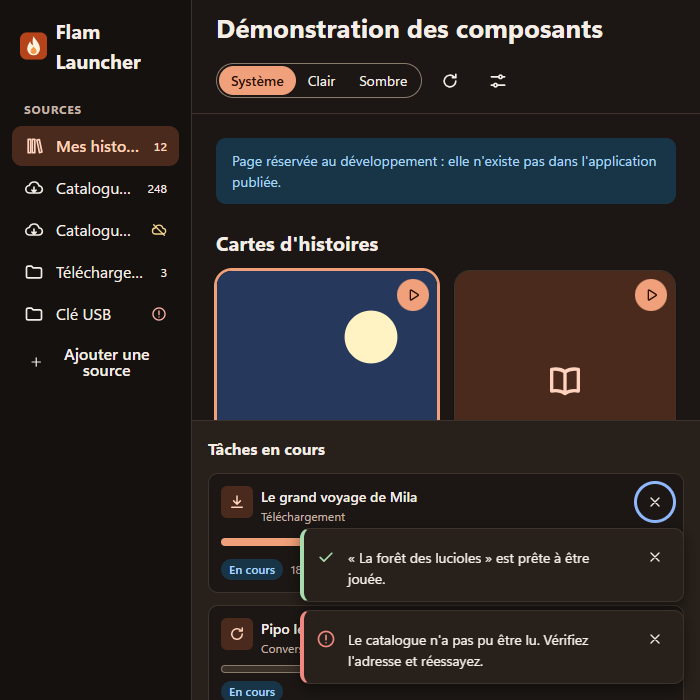
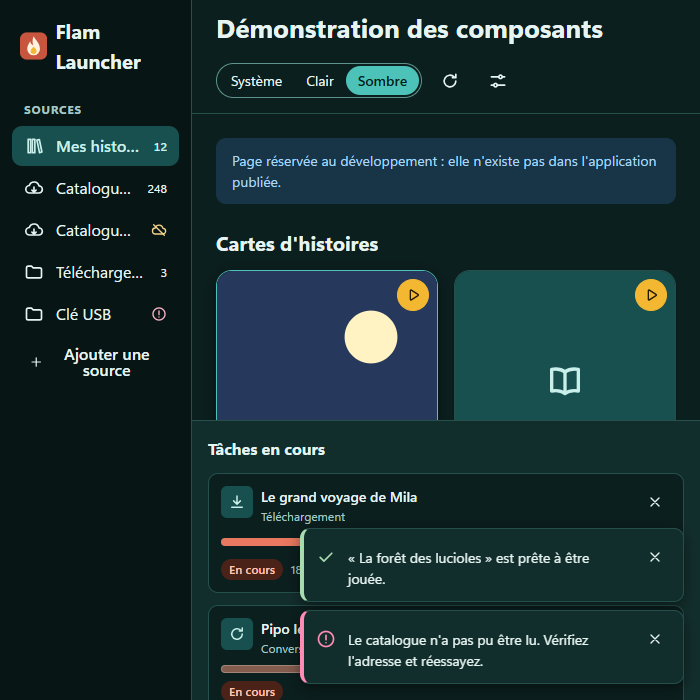
docs(launcher): palette, rôles et contrastes dans DESIGN.md, captures regénérées dans les deux thèmes (#49)

diff --git a/apps/flam-launcher/src/components/Button/Button.test.tsx b/apps/flam-launcher/src/components/Button/Button.test.tsx
@@ -48,3 +48,14 @@ it("n'a aucune violation axe", async () => {
   );
   await expectComponentAccessible(container);
 });
+
+it("applique la variante accent (jaune) au bouton Jouer", async () => {
+  const { container } = render(
+    <Button variant="accent" icon="play">
+      Jouer
+    </Button>,
+  );
+
+  expect(screen.getByRole("button", { name: "Jouer" })).toHaveClass("fl-button--accent");
+  await expectComponentAccessible(container);
+});

diff --git a/apps/flam-launcher/docs/DESIGN.md b/apps/flam-launcher/docs/DESIGN.md
@@ -15,7 +15,8 @@ les composants ont été dessinés pour ce projet.
 
 ## Principes
 
-1. **Chaleureux et sobre** : fond crème, accent brique, coins arrondis, peu d'ornements.
+1. **Aux couleurs de la Flam** : vert d'eau du boîtier, jaune de la molette, orange du logo,
+   coins arrondis, peu d'ornements.
    L'attention va aux vignettes des histoires.
 2. **Lisible** : texte de base en 16 px, contrastes AA vérifiés, libellés explicites en
    français (« Installer », « Jouer »), pas d'icône seule sans libellé accessible.
@@ -64,30 +65,89 @@ Clair et sombre, avec choix **Système / Clair / Sombre**.
 
 ### Palette
 
-| Jeton                     | Clair     | Sombre    | Usage                                            |
-| ------------------------- | --------- | --------- | ------------------------------------------------ |
-| `--color-bg`              | `#fbf7f2` | `#1c1714` | Fond de l'application                            |
-| `--color-surface`         | `#ffffff` | `#27201b` | Cartes, dialogues, panneau                       |
-| `--color-surface-sunken`  | `#f4ede4` | `#15110e` | Barre latérale                                   |
-| `--color-surface-hover`   | `#efe5d8` | `#342b24` | Survol                                           |
-| `--color-border`          | `#e3d8ca` | `#3d332b` | Séparateurs (décoratifs)                         |
-| `--color-border-strong`   | `#8f7c6a` | `#8a7a6c` | Contours de contrôles (≥ 3:1)                    |
-| `--color-text`            | `#2a211b` | `#f5eee7` | Texte                                            |
-| `--color-text-muted`      | `#66574b` | `#c2b4a7` | Texte secondaire                                 |
-| `--color-primary`         | `#b5441b` | `#f0a07a` | Action principale (brique)                       |
-| `--color-on-primary`      | `#ffffff` | `#2a1206` | Texte sur l'action principale                    |
-| `--color-primary-soft`    | `#fbe3d6` | `#4a2a1c` | Sélection, pastilles d'icônes                    |
-| `--color-danger`          | `#b3261e` | `#f08a80` | Action destructrice                              |
-| `--color-focus`           | `#1f5fc4` | `#8fb8ff` | Anneau de focus                                  |
-| `--tone-{ton}-bg` / `-fg` | —         | —         | Badges : neutral, info, success, warning, danger |
+Reprise des couleurs de la Flam (relevées sur une photo du produit, puis ajustées pour les
+contrastes). Trois rôles :
 
-Les couleurs du sombre sont éclaircies (et non inversées) pour garder la même chaleur.
+- **Primaire, vert d'eau** (boîtier) : barre latérale, boutons principaux, sélection, liens.
+- **Accent, jaune** (molette, boutons, cordon) : bouton « Jouer » (`Button` et `IconButton`
+  `variant="accent"`) et mises en avant. Le texte posé dessus est **foncé** ; un contour
+  (`--color-accent-border`) garde le bouton identifiable (3:1) sur les surfaces.
+- **Secondaire, orange brique** (logo FLAM) : badges (ton `secondary`, ex. « Nouveau »),
+  avancement (`ProgressBar`, badge « En cours »), logo.
+
+Le thème **sombre** s'inspire de l'écran de la Flam : fond vert très foncé, texte clair
+verdâtre, vert d'eau éclairci, jaune et orange en accents. Le **danger** est un rouge
+framboise (teinte 340°), volontairement à l'écart de l'orange (11°) ; il est toujours
+accompagné d'un texte ou d'une icône.
+
+| Jeton                       | Clair     | Sombre    | Usage                                                       |
+| --------------------------- | --------- | --------- | ----------------------------------------------------------- |
+| `--color-bg`                | `#f6fbfa` | `#0b1f1e` | Fond de l'application                                       |
+| `--color-surface`           | `#ffffff` | `#122e2c` | Cartes, dialogues, panneau                                  |
+| `--color-surface-sunken`    | `#e2f1ef` | `#071615` | Barre latérale                                              |
+| `--color-surface-hover`     | `#cfe7e4` | `#1c423f` | Survol                                                      |
+| `--color-border`            | `#cfe3e0` | `#25504c` | Séparateurs (décoratifs)                                    |
+| `--color-border-strong`     | `#5b827e` | `#5e938e` | Contours de contrôles (≥ 3:1)                               |
+| `--color-text`              | `#12302f` | `#e6f4f2` | Texte                                                       |
+| `--color-text-muted`        | `#41605d` | `#a6c8c4` | Texte secondaire                                            |
+| `--color-primary`           | `#17706b` | `#4cc2b9` | Primaire : actions, liens, sélection                        |
+| `--color-primary-hover`     | `#115b57` | `#6fd3cb` | Survol de l'action principale                               |
+| `--color-on-primary`        | `#ffffff` | `#04201e` | Texte sur le primaire                                       |
+| `--color-primary-soft`      | `#c9e8e4` | `#17504f` | Sélection, pastilles d'icônes                               |
+| `--color-on-primary-soft`   | `#0d4743` | `#c9efea` | Texte sur `primary-soft`                                    |
+| `--color-accent`            | `#f4b731` | `#f4b731` | Accent : « Jouer », mises en avant                          |
+| `--color-accent-hover`      | `#ffc94d` | `#ffc94d` | Survol de l'accent                                          |
+| `--color-on-accent`         | `#2b2000` | `#241a00` | Texte foncé sur le jaune                                    |
+| `--color-accent-border`     | `#8a6300` | `#f4b731` | Contour du bouton accent (≥ 3:1)                            |
+| `--color-secondary`         | `#b84a31` | `#e8785f` | Secondaire : avancement, marque                             |
+| `--color-secondary-hover`   | `#9c3b25` | `#f19480` | Survol du secondaire                                        |
+| `--color-on-secondary`      | `#ffffff` | `#2a0d06` | Texte sur le secondaire                                     |
+| `--color-secondary-soft`    | `#fbe0d8` | `#4a2218` | Fond doux du secondaire                                     |
+| `--color-on-secondary-soft` | `#8a2f1a` | `#ffc4b3` | Texte sur `secondary-soft`                                  |
+| `--color-danger`            | `#b00f45` | `#ff8cb4` | Action destructrice                                         |
+| `--color-danger-hover`      | `#8e0b38` | `#ffadc9` | Survol du danger                                            |
+| `--color-on-danger`         | `#ffffff` | `#3a0613` | Texte sur le danger                                         |
+| `--color-focus`             | `#1f5fc4` | `#8fb8ff` | Anneau de focus (bleu, hors palette)                        |
+| `--brand-orange`            | `#c8553d` | `#c8553d` | Logo, fond (identique dans les thèmes)                      |
+| `--brand-cream`             | `#fff3e0` | `#fff3e0` | Logo, flamme                                                |
+| `--brand-yellow`            | `#f4b731` | `#f4b731` | Logo, cœur de la flamme                                     |
+| `--tone-{ton}-bg` / `-fg`   | —         | —         | Badges : neutral, info, success, warning, danger, secondary |
+
+Les couleurs du sombre sont éclaircies (et non inversées) pour garder la même chaleur. Le
+jaune est le même dans les deux thèmes : le texte foncé posé dessus reste lisible partout.
 
 ### Contrastes
 
-Vérifiés par axe-core (règle `color-contrast`, WCAG AA) dans Edge, sur la page de
-démonstration, dans les deux thèmes, dialogue et notifications ouverts : **0 violation**.
-Dans jsdom (tests Vitest), la règle est désactivée car les styles n'y sont pas calculés.
+Rapports mesurés (luminance relative WCAG 2.x, script hors dépôt) sur les couples réellement
+utilisés. Seuils : 4,5:1 pour le texte, 3:1 pour les composants et le focus. Les valeurs entre
+parenthèses sont celles au survol.
+
+| Couple                                                    | Clair                 | Sombre                 | Seuil |
+| --------------------------------------------------------- | --------------------- | ---------------------- | ----- |
+| `text` sur `bg` / `surface` / `sunken`                    | 13,5 / 14,1 / 12,1    | 15,1 / 12,8 / 16,4     | 4,5   |
+| `text-muted` sur `bg` / `surface` / `sunken` / `hover`    | 6,6 / 6,9 / 5,9 / 5,3 | 9,5 / 8,0 / 10,3 / 6,2 | 4,5   |
+| `on-primary` sur `primary`                                | 5,9 (7,9)             | 7,9 (9,6)              | 4,5   |
+| `primary` (liens) sur `bg` / `surface` / `sunken`         | 5,6 / 5,9 / 5,1       | 7,9 / 6,7 / 8,6        | 4,5   |
+| `on-primary-soft` sur `primary-soft`                      | 8,1                   | 7,4                    | 4,5   |
+| `on-accent` sur `accent`                                  | 8,9 (10,5)            | 9,5 (11,2)             | 4,5   |
+| `accent-border` sur `bg` / `surface` / `sunken`           | 5,2 / 5,4 / 4,7       | 9,5 / 8,0 / 10,3       | 3     |
+| `on-secondary` sur `secondary`                            | 5,2 (6,9)             | 6,3 (8,0)              | 4,5   |
+| `secondary` sur `bg` / `surface` / `sunken`               | 5,0 / 5,2 / 4,5       | 5,9 / 5,0 / 6,4        | 3     |
+| `secondary` sur la piste de progression                   | 4,4                   | 3,9                    | 3     |
+| `on-secondary-soft` sur `secondary-soft`                  | 6,7                   | 9,0                    | 4,5   |
+| `on-danger` sur `danger`                                  | 7,0 (9,3)             | 8,0 (9,9)              | 4,5   |
+| `danger` sur `bg` / `surface` / `sunken`                  | 6,7 / 7,0 / 6,0       | 7,9 / 6,7 / 8,5        | 4,5   |
+| `border-strong` sur `bg` / `surface` / `sunken` / `hover` | 4,1 / 4,3 / 3,7 / 3,3 | 4,9 / 4,2 / 5,3 / 3,2  | 3     |
+| `focus` sur `bg` / `surface` / `sunken`                   | 5,8 / 6,0 / 5,2       | 8,5 / 7,2 / 9,2        | 3     |
+| Badges : `-fg` sur `-bg` (6 tons)                         | 6,3 à 7,5             | 8,1 à 9,1              | 4,5   |
+
+Le contour de focus est tracé avec un décalage de 2 px : il se détache du fond de la page, non
+du bouton qu'il entoure.
+
+Contrôle automatique : axe-core (règle `color-contrast`, WCAG AA) dans Edge, sur la page de
+démonstration (dialogue et notifications ouverts compris), l'écran des sources et celui des
+paramètres, dans les deux thèmes : **0 violation**. Dans jsdom (tests Vitest), la règle est
+désactivée car les styles n'y sont pas calculés.
 
 ## Typographie
 
@@ -101,7 +161,7 @@ Dans jsdom (tests Vitest), la règle est désactivée car les styles n'y sont pa
 
 - Échelle de 4 px : `--space-1` (4) à `--space-7` (48).
 - Rayons : 6 (`sm`), 10 (`md`), 16 px (`lg`, cartes et dialogues), pilule pour boutons et badges.
-- Trois ombres (`sm`, `md`, `lg`) teintées de brun en clair, noires en sombre.
+- Trois ombres (`sm`, `md`, `lg`) teintées de vert foncé en clair, noires en sombre.
 
 ## Composants
 
@@ -125,15 +185,15 @@ Dans [`src/components/`](../src/components/), un dossier par composant
   absente ou ne charge pas), titre, âge, badges (clé `id` stable), progression facultative
   (`progress` en % ou `"indeterminate"`, `progressText`), actions rapides. Le titre est un
   bouton dont la zone couvre la carte ; la vignette est décorative (`alt=""`).
-- **`Badge`** : état court en 5 tons ; texte obligatoire, icône décorative.
+- **`Badge`** : état court en 6 tons (dont `secondary`, orange) ; texte obligatoire, icône décorative.
 - **`TextField`** : champ texte avec libellé, aide et erreur reliés par `aria-describedby` ; l'erreur est annoncée poliment.
 - **`RadioGroup`** : boutons radio natifs dans un `fieldset` (ex. choix du thème).
 - **`Banner`** : message en bandeau (info, succès, avertissement, erreur) avec icône, titre et action facultative.
-- **`Button`** : `primary`, `secondary`, `ghost`, `danger` ; tailles `md`/`sm` ;
+- **`Button`** : `primary`, `accent` (jaune, « Jouer »), `secondary`, `ghost`, `danger` ; tailles `md`/`sm` ;
   `type="button"` par défaut ; `ref` transmise au bouton natif.
-- **`IconButton`** : icône seule ; `label` obligatoire (vérifié par TypeScript) → nom
+- **`IconButton`** : variantes `ghost`, `secondary`, `primary`, `accent` ; icône seule ; `label` obligatoire (vérifié par TypeScript) → nom
   accessible et infobulle.
-- **`ProgressBar`** : `role="progressbar"`, valeur bornée à 0-100 et arrondie ;
+- **`ProgressBar`** : remplissage orange (secondaire) ; `role="progressbar"`, valeur bornée à 0-100 et arrondie ;
   indéterminée sans `aria-valuenow`.
 - **`TaskPanel`** : téléchargements, conversions, installations. États `queued`,
   `running`, `done`, `error`, `cancelled` ; `phase` (étape affichée après le type) et
@@ -165,7 +225,9 @@ Les icônes ([`Icon.tsx`](../src/components/Icon.tsx)) sont des SVG originaux en
 d'icônes : une vingtaine de pictogrammes suffit et évite une dépendance.
 
 L'icône d'application ([`src-tauri/icons/app-icon.svg`](../src-tauri/icons/app-icon.svg),
-reprise par `AppLogo`) est une flamme crème sur un carré brique. Régénération :
+reprise par `AppLogo`) est une flamme crème sur un carré brique ; `AppLogo` reprend le dessin avec les jetons de
+marque (`--brand-*`, orange `#c8553d`). Le fichier de l'icône garde pour l'instant l'ancienne
+teinte : à régénérer avec la nouvelle (suivi à part). Régénération :
 `npm run tauri icon src-tauri/icons/app-icon.svg`, en ne gardant que les fichiers listés dans
 `tauri.conf.json` (et `icon.png`).
 
@@ -195,8 +257,9 @@ En développement seulement : `npm run dev` puis <http://localhost:1420/#/demo> 
 sous l'écran d'accueil avec `npm run tauri dev`). La page est chargée à la demande derrière
 `import.meta.env.DEV` : le build de production ne contient ni la page ni ses données.
 Elle présente tous les composants avec des données fictives et un sélecteur de thème.
-Captures dans Edge, servie avec la CSP de `tauri.conf.json` (dossier
-[`screenshots/`](screenshots/), exception dans le `.gitignore` racine) :
+Captures dans Edge (Playwright), servie avec la CSP de `tauri.conf.json`, backend simulé par
+un `window.__TAURI_INTERNALS__.invoke` injecté (script temporaire non versionné, données
+fictives) ; dossier [`screenshots/`](screenshots/), exception dans le `.gitignore` racine :
 
 | Clair                                                             | Sombre                                                 |
 | ----------------------------------------------------------------- | ------------------------------------------------------ |
